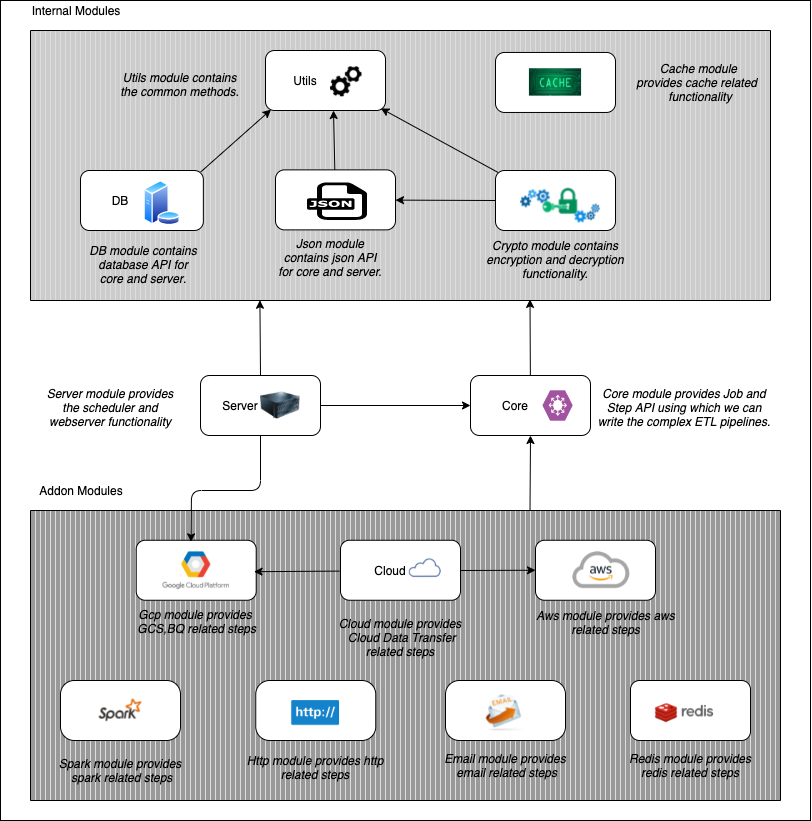
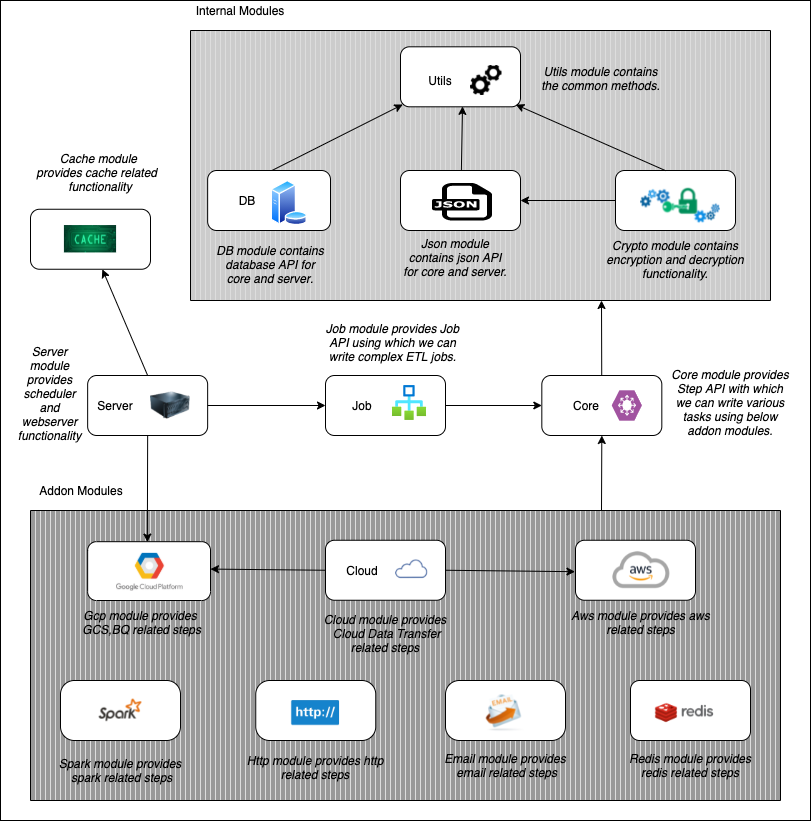
Updated documentation for 0.12.0

diff --git a/README.md b/README.md
@@ -1,12 +1,12 @@
-EtlFlow
-====
+# EtlFlow
 
 [![Core Workflow](https://github.com/tharwaninitin/etlflow/actions/workflows/core.yml/badge.svg)](https://github.com/tharwaninitin/etlflow/actions/workflows/core.yml)
+[![Job Workflow](https://github.com/tharwaninitin/etlflow/actions/workflows/job.yml/badge.svg)](https://github.com/tharwaninitin/etlflow/actions/workflows/job.yml)
 [![Server Workflow](https://github.com/tharwaninitin/etlflow/actions/workflows/server.yml/badge.svg)](https://github.com/tharwaninitin/etlflow/actions/workflows/server.yml)
 [![Maven Central](https://maven-badges.herokuapp.com/maven-central/com.github.tharwaninitin/etlflow-core_2.12/badge.svg)](https://mvnrepository.com/artifact/com.github.tharwaninitin/etlflow-core)
 [![javadoc](https://javadoc.io/badge2/com.github.tharwaninitin/etlflow-core_2.12/javadoc.svg)](https://javadoc.io/doc/com.github.tharwaninitin/etlflow-core_2.12)
 
-**EtlFlow** is a Functional library in Scala for writing ETL jobs.
+**EtlFlow** is an ecosystem of functional libraries in Scala based on ZIO for writing various different tasks, jobs, scheduling those jobs and monitoring those jobs using UI.
 
 ## Documentation
 
@@ -14,12 +14,23 @@ __Library Documentation__  https://tharwaninitin.github.io/etlflow/site/docs
 
 [comment]: <> (__Scala Test Coverage Report__  https://tharwaninitin.github.io/etlflow/testcovrep/)
 
+## Examples
+You can use this library in different ways mentioned below
+* [Core Module](examplecore) :         
+  Using just this module you can use Step API into your project.
+* [Spark Module (spark steps)](examplespark) :         
+  Using this addon module along with core you can use spark steps into your project.
+* [Job Module](examplejob) :         
+  Using this module along with core you can use Job API into your project.
+* [Server Module](exampleserver) :         
+  Using this module along with job you can use Server API into your project.
+
 ## Modules Dependency Graph
 
-![Example](moduleDep.png)
+![ModuleDepGraph](moduleDep.png)
 
 ## Scala Version Compatibility Matrix
-
+### Internal Modules
 | Module Name        | Scala 2.12           | Scala 2.13  | Scala 3.0  | 
 | -------------------|:--------------------:| -----------:| ----------:|
 | Utils              | ✅                   | ✅          | ✅          |
@@ -27,8 +38,17 @@ __Library Documentation__  https://tharwaninitin.github.io/etlflow/site/docs
 | Cache              | ✅                   | ✅          | ✅          |
 | Crypto             | ✅                   | ✅          | ✅          |
 | Db                 | ✅                   | ✅          | ✅          |
-| Core               | ✅                   | ✅          | ✅          |
-| Server             | ✅                   | ✅          | ✅          |
+
+### Main Modules
+| Module Name        | Scala 2.12           | Scala 2.13  | Scala 3.0  | 
+| -------------------|:--------------------:| -----------:| ----------:|
+| **Core**           | ✅                   | ✅          | ✅          |
+| **Job**            | ✅                   | ✅          | ✅          |
+| **Server**         | ✅                   | ✅          | ✅          |
+
+### Addon Modules For Core
+| Module Name        | Scala 2.12           | Scala 2.13  | Scala 3.0  | 
+| -------------------|:--------------------:| -----------:| ----------:|
 | Http               | ✅                   | ✅          | ✅          |
 | Cloud              | ✅                   | ✅          | ✅          |
 | Email              | ✅                   | ✅          | ✅          |
@@ -36,20 +56,6 @@ __Library Documentation__  https://tharwaninitin.github.io/etlflow/site/docs
 | Gcp                | ✅                   | ✅          | ✅          |
 | Redis              | ✅                   | ✅          | ❌          |
 | Spark              | ✅                   | ✅          | ❌          |
-
-
-## Examples 
-
-You can use this library in different ways mentioned below
-
-* [Core Module](examplecore) :         
-    Using this module you can use Step API into your project
-* [Spark Module with spark steps](examplespark) :         
-  Using this module you can use spark steps into your project
-* [Job Module](examplejob) :         
-    Using this module you can use Job API into your project
-* [Server Module](exampleserver) :         
-    Using this module you can use Server API into your project.
 
 ## Requirements and Installation
 This project is compiled with scala versions 2.12.15, 2.13.7, 3.1.0
